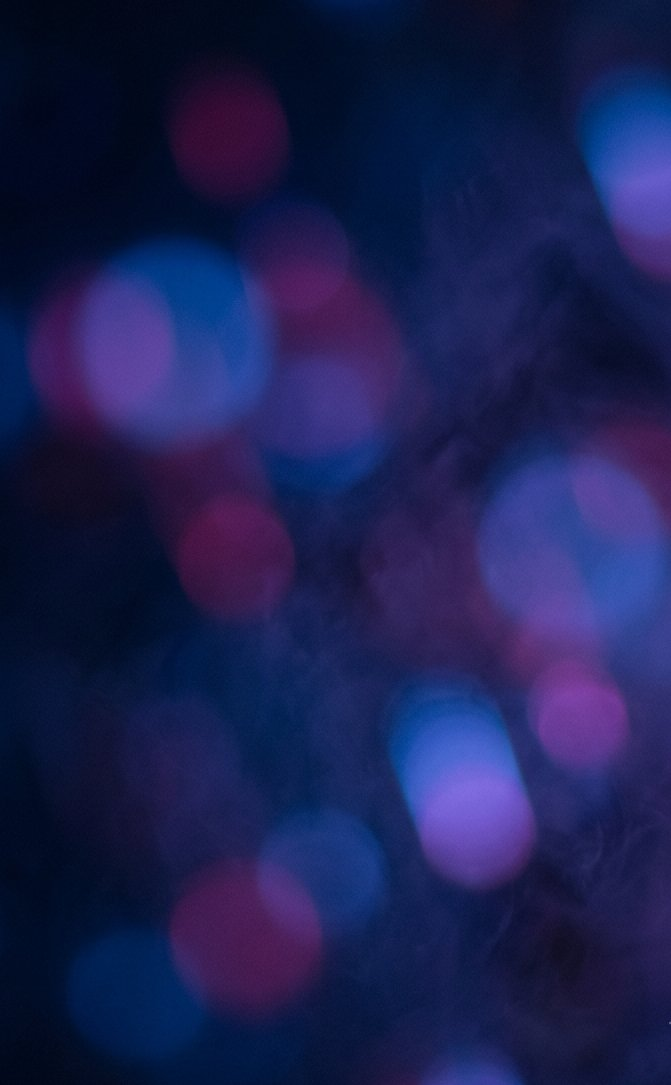
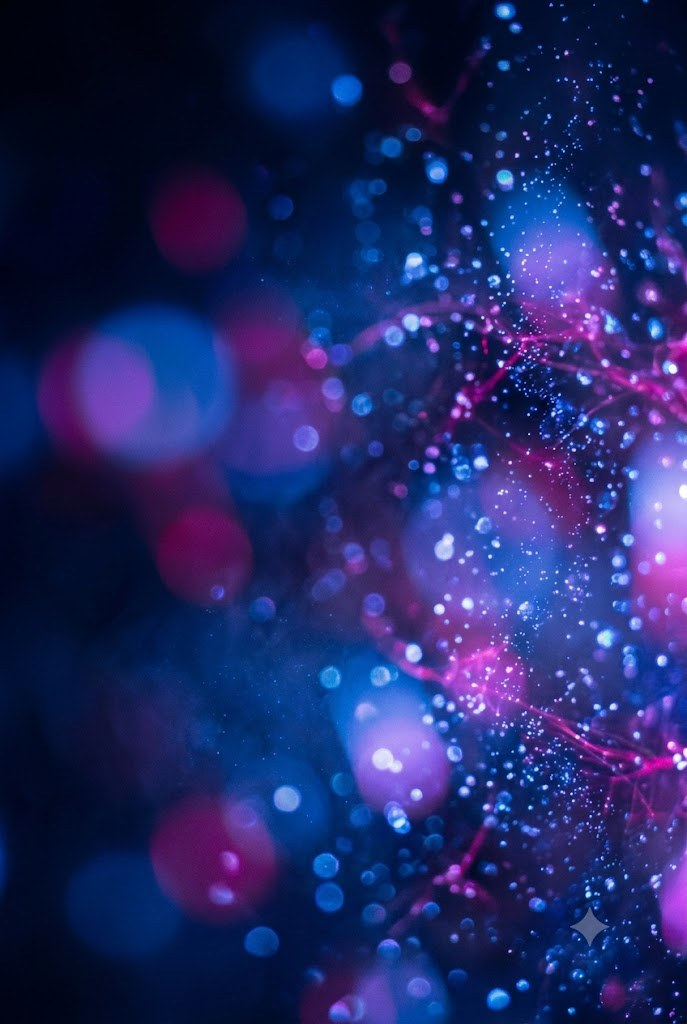
Swap in a more textured ambient background, crop watermark via position
New source photo has finer sparkle/bokeh detail instead of just large
soft blobs, reading as sharper. Its watermark is hidden by biasing
object-position toward the top of the image (using slack already
present from the cover-fit crop) rather than adding extra zoom, so
the image isn't scaled up more than necessary. Bumped opacity
slightly for visibility.

diff --git a/components/site/AmbientBackground.tsx b/components/site/AmbientBackground.tsx
@@ -29,9 +29,9 @@ export function AmbientBackground() {
   }, []);
 
   return (
-    <div className="fixed inset-x-0 -top-[60px] -bottom-[60px] -z-10 opacity-25 pointer-events-none overflow-hidden">
+    <div className="fixed inset-x-0 -top-[60px] -bottom-[60px] -z-10 opacity-35 pointer-events-none overflow-hidden">
       <div ref={ref} className="absolute inset-0">
-        <Image src="/images/bg-ambient.jpg" alt="" fill priority className="object-cover" />
+        <Image src="/images/bg-ambient.jpg" alt="" fill priority className="object-cover object-[50%_8%]" />
       </div>
     </div>
   );